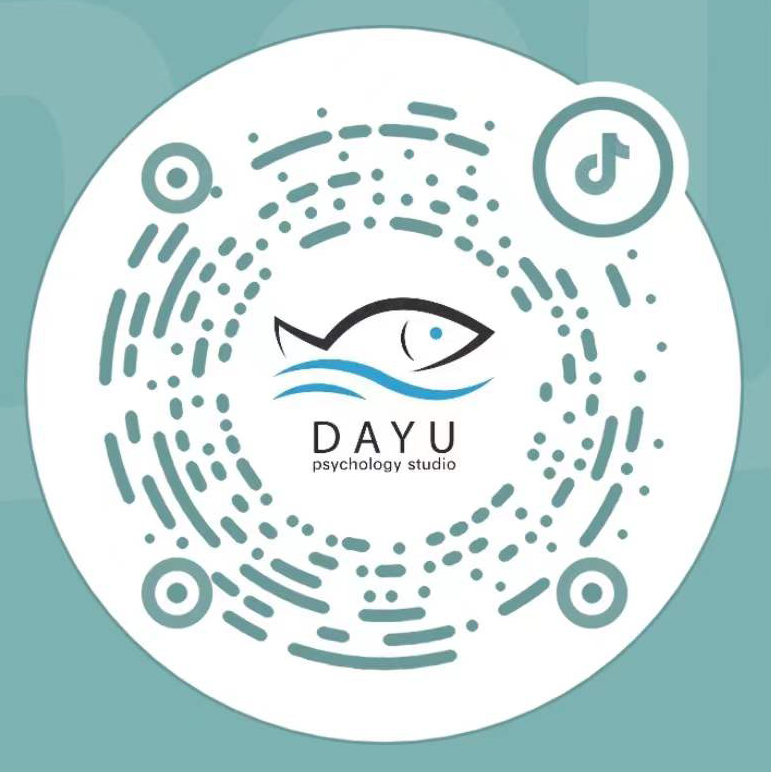
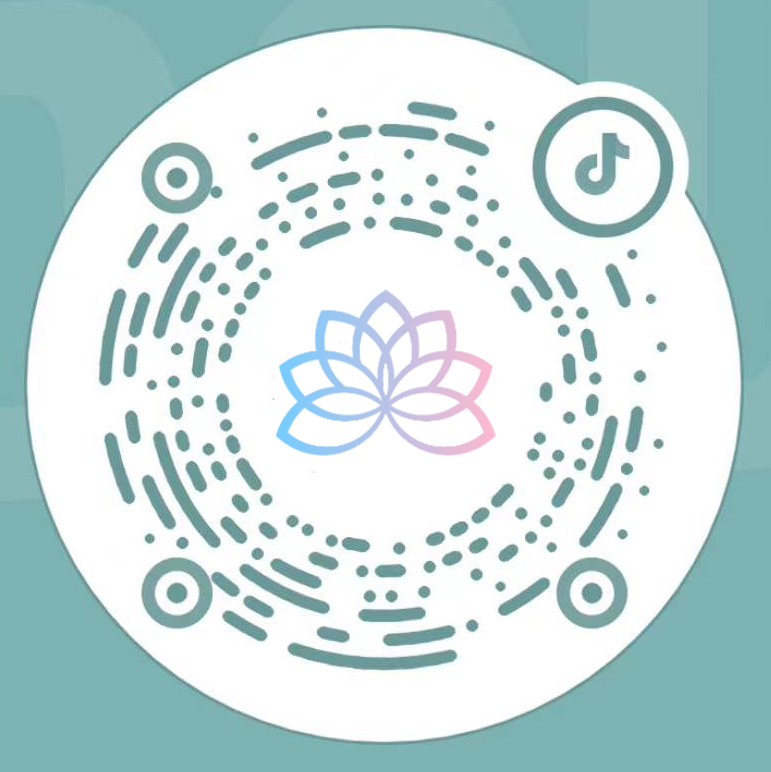
fix: 大鱼图标替换

Changed region(s): [[0.3424, 0.3731, 0.6537, 0.6218]]

diff --git a/src/components/book/components/BookCounselor.vue b/src/components/book/components/BookCounselor.vue
@@ -298,7 +298,7 @@ export default {
           this.bookItemSelecting = -1
           this.bookList = []
           this.dateInfo = {}
-          if(!this.hasGetFirstDate){
+          if (!this.hasGetFirstDate) {
             this.hasGetFirstDate = true
             this.fetchCounselorBookWrapper()
           }
@@ -322,8 +322,8 @@ export default {
       })
     } else {
       const counselorName = localStorage.getItem('counselorName')
-      if(counselorName){
-        localStorage.setItem('counselorName','')
+      if (counselorName) {
+        localStorage.setItem('counselorName', '')
         this.searchName = counselorName
       }
       this.fetchAvailableCounselorBookDateWrapper()

diff --git a/src/components/setting/components/BookHistoryItem.vue b/src/components/setting/components/BookHistoryItem.vue
@@ -1,5 +1,4 @@
 <template>
-  <p>{{bookInfo}}</p>
   <div style="height: 10px;"></div>
   <div id="hr-division-line"></div>
   <div class="detail-item-frame">
